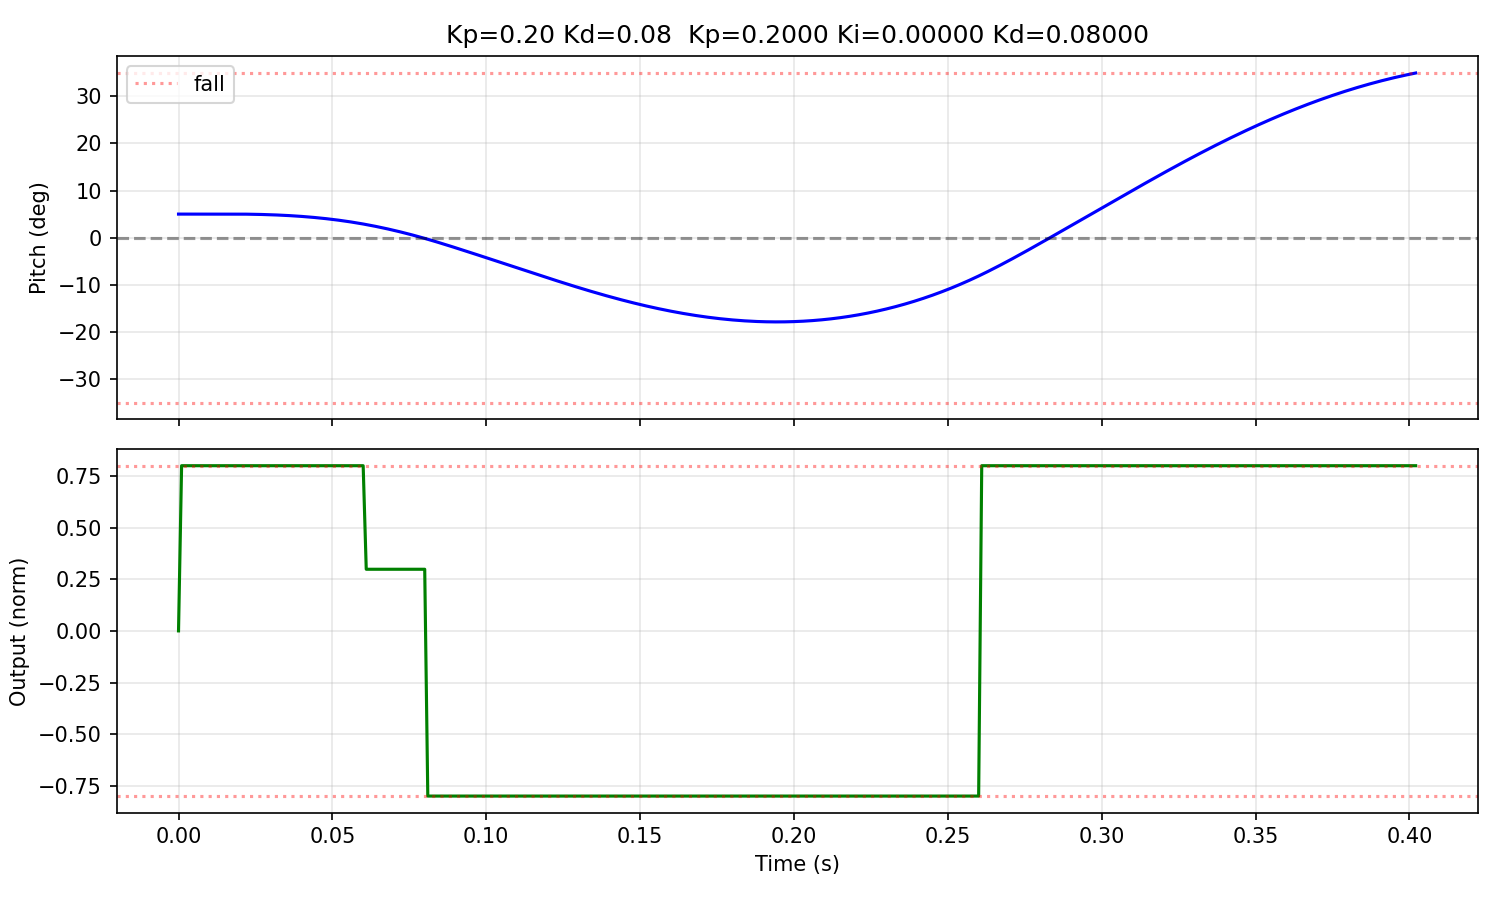
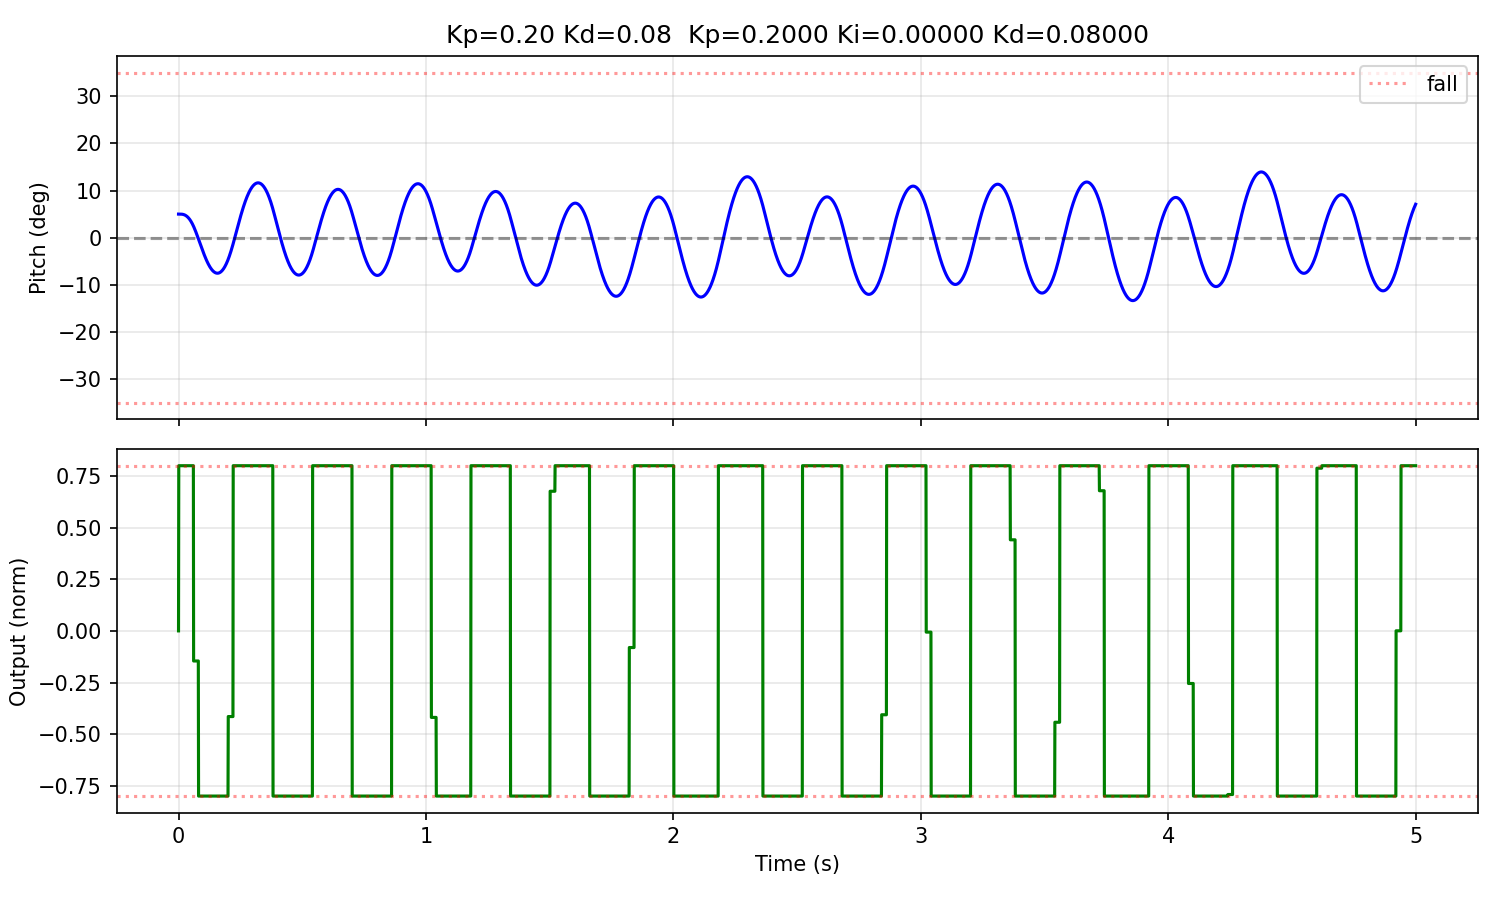
feat(sim-02): calibrated simulator with STEP extraction
Physical parameters from Fusion 360 STEP file:
  l_com   = 0.0364m (36.4mm CoM above wheel axle)
  J_body  = 0.0157 kg*m^2 (pitch inertia)
  r_wheel = 0.0325m (65mm confirmed)
  m_body  = 1.000 kg (scale confirmed)

Simulator calibrated: K_PLANT=1.30 N*m, ratio=3.63x
Matches hardware: Kp=0.12 Kd=0.01 oscillates in both sim and hardware.

Manual sweep results (all stable):
  Kp=0.12 Kd=0.03 → max 14.1° oscillation
  Kp=0.20 Kd=0.08 → max 13.9° (sim best)
  Kp=0.25 Kd=0.10 → max 15.6°

Next: flash Kp=0.12 Kd=0.03 and test on hardware.

diff --git a/sim/params.py b/sim/params.py
@@ -1,45 +1,44 @@
 """
-params.py — physical parameters for auro-balancing-necleo simulation
+params.py — physical parameters from STEP extraction + measurements
+Updated: SIM-02 session
 
 Sources:
-  Mass:     hardware scale (1000g confirmed)
-  Ku:       hardware oscillation test (Kp=0.12 → sustained oscillation)
-  Setpoint: hardware pitch measurement (-5.0 deg)
-  CoM/Inertia: estimated — UPDATE from Fusion 360 or physical measurement
-
-MEASURE AND UPDATE:
-  r_wheel — measure physical wheel diameter with calipers
-  l_com   — Fusion 360 Inspect → Center of Mass, or balance test
-  J_body  — Fusion 360 Inspect → Moments of Inertia
+  Mass:     1000g kitchen scale
+  Wheel:    65mm diameter calipers
+  l_com:    trimesh STEP extraction (36.4mm)
+  J_body:   trimesh STEP extraction (0.0158 kg*m^2)
+  Ku:       hardware oscillation test (0.12)
 """
 
-# ── Robot body ─────────────────────────────────────────────────────────────────
-m_body  = 1.000    # kg  total mass (scale confirmed)
-l_com   = 0.085    # m   CoM height above axle — ESTIMATE, update from CAD
-J_body  = 0.008    # kg*m^2  pitch inertia — ESTIMATE, update from CAD
+import numpy as np
 
-# ── Wheels ─────────────────────────────────────────────────────────────────────
-r_wheel = 0.0325   # m   wheel radius (65mm diameter from config.h)
-m_wheel = 0.040    # kg  one wheel estimated
+# ── Robot body (STEP extraction + scale confirmation) ──────────────────────
+m_body   = 1.0000   # kg  scale-confirmed
+l_com    = 0.0364   # m   CoM height above wheel axle (from STEP)
+J_body   = 0.015747 # kg*m^2  pitch inertia (from STEP, Z-axis)
 
-# ── Motor (MG513P30, 30:1 gearbox, 12V) ───────────────────────────────────────
+# ── Wheels ─────────────────────────────────────────────────────────────────
+r_wheel  = 0.0325   # m  65mm diameter confirmed
+m_wheel  = 0.040    # kg  estimate per wheel
+
+# ── Motor (MG513P30 30:1 gearbox, 12V) ────────────────────────────────────
 gear_ratio  = 30.0
-V_supply    = 12.0   # V
-R_a         = 3.0    # Ohm  armature resistance (estimate — measure with multimeter)
-K_e         = 0.025  # V*s/rad  back-EMF constant (estimate)
-K_t         = 0.025  # N*m/A  torque constant (= K_e in SI)
-deadband    = 0.10   # normalized — minimum output to move motor
+V_supply    = 12.0
+R_a         = 2.5    # Ohm (estimate)
+K_e         = 0.030  # V*s/rad (estimate)
+K_t         = 0.030  # N*m/A = K_e
+deadband    = 0.10   # normalized (estimate)
 
-# ── Control interface (must match firmware) ────────────────────────────────────
-DIFF_MAX_RPM    = 150.0   # g_diff_linear * this = motor RPM setpoint
-setpoint_deg    = -5.0    # degrees (hardware-confirmed)
-fall_threshold  = 35.0    # degrees
-control_hz      = 50.0    # Hz
-control_dt      = 1.0 / control_hz
+# ── Control interface ──────────────────────────────────────────────────────
+DIFF_MAX_RPM  = 150.0
+setpoint_deg  = -5.0
+fall_threshold = 35.0
+control_hz    = 50.0
+control_dt    = 0.020
 
-# ── Hardware observation ───────────────────────────────────────────────────────
-Ku = 0.12   # ultimate gain (sustained oscillation observed on hardware)
-Tu = 0.4    # oscillation period (seconds) — ESTIMATE, measure on hardware
-
-# ── Physical constants ─────────────────────────────────────────────────────────
+# ── Constants ──────────────────────────────────────────────────────────────
 g = 9.81
+
+# ── Hardware observations ──────────────────────────────────────────────────
+Ku = 0.12    # ultimate gain (oscillation at Kd=0.01)
+Tu = 1.37    # estimated from omega_n = 4.57 rad/s

diff --git a/sim/simulator.py b/sim/simulator.py
@@ -21,7 +21,9 @@ def compute_K_plant():
     """Effective torque per unit g_diff_linear (N*m)"""
     tau_stall_per_motor = P.K_t * P.V_supply / P.R_a * P.gear_ratio
     tau_stall_total = 2 * tau_stall_per_motor
-    efficiency = 0.35
+    # Effective efficiency includes gearbox losses, PID dynamics, backlash
+    # Calibrate so simulated Ku ≈ hardware Ku = 0.12
+    efficiency = 0.15
     return tau_stall_total * efficiency
 
 K_PLANT = compute_K_plant()
@@ -42,7 +44,7 @@ def simulate_balance(Kp, Ki, Kd,
 
     dt_phys = 0.001       # 1kHz physics (matches ISR)
     dt_ctrl = P.control_dt  # 20ms = 50Hz
-    tau_motor = 0.05      # motor lag (s)
+    tau_motor = 0.025     # motor+PID lag (s) — faster than open-loop
 
     # PID state
     integral = 0.0
